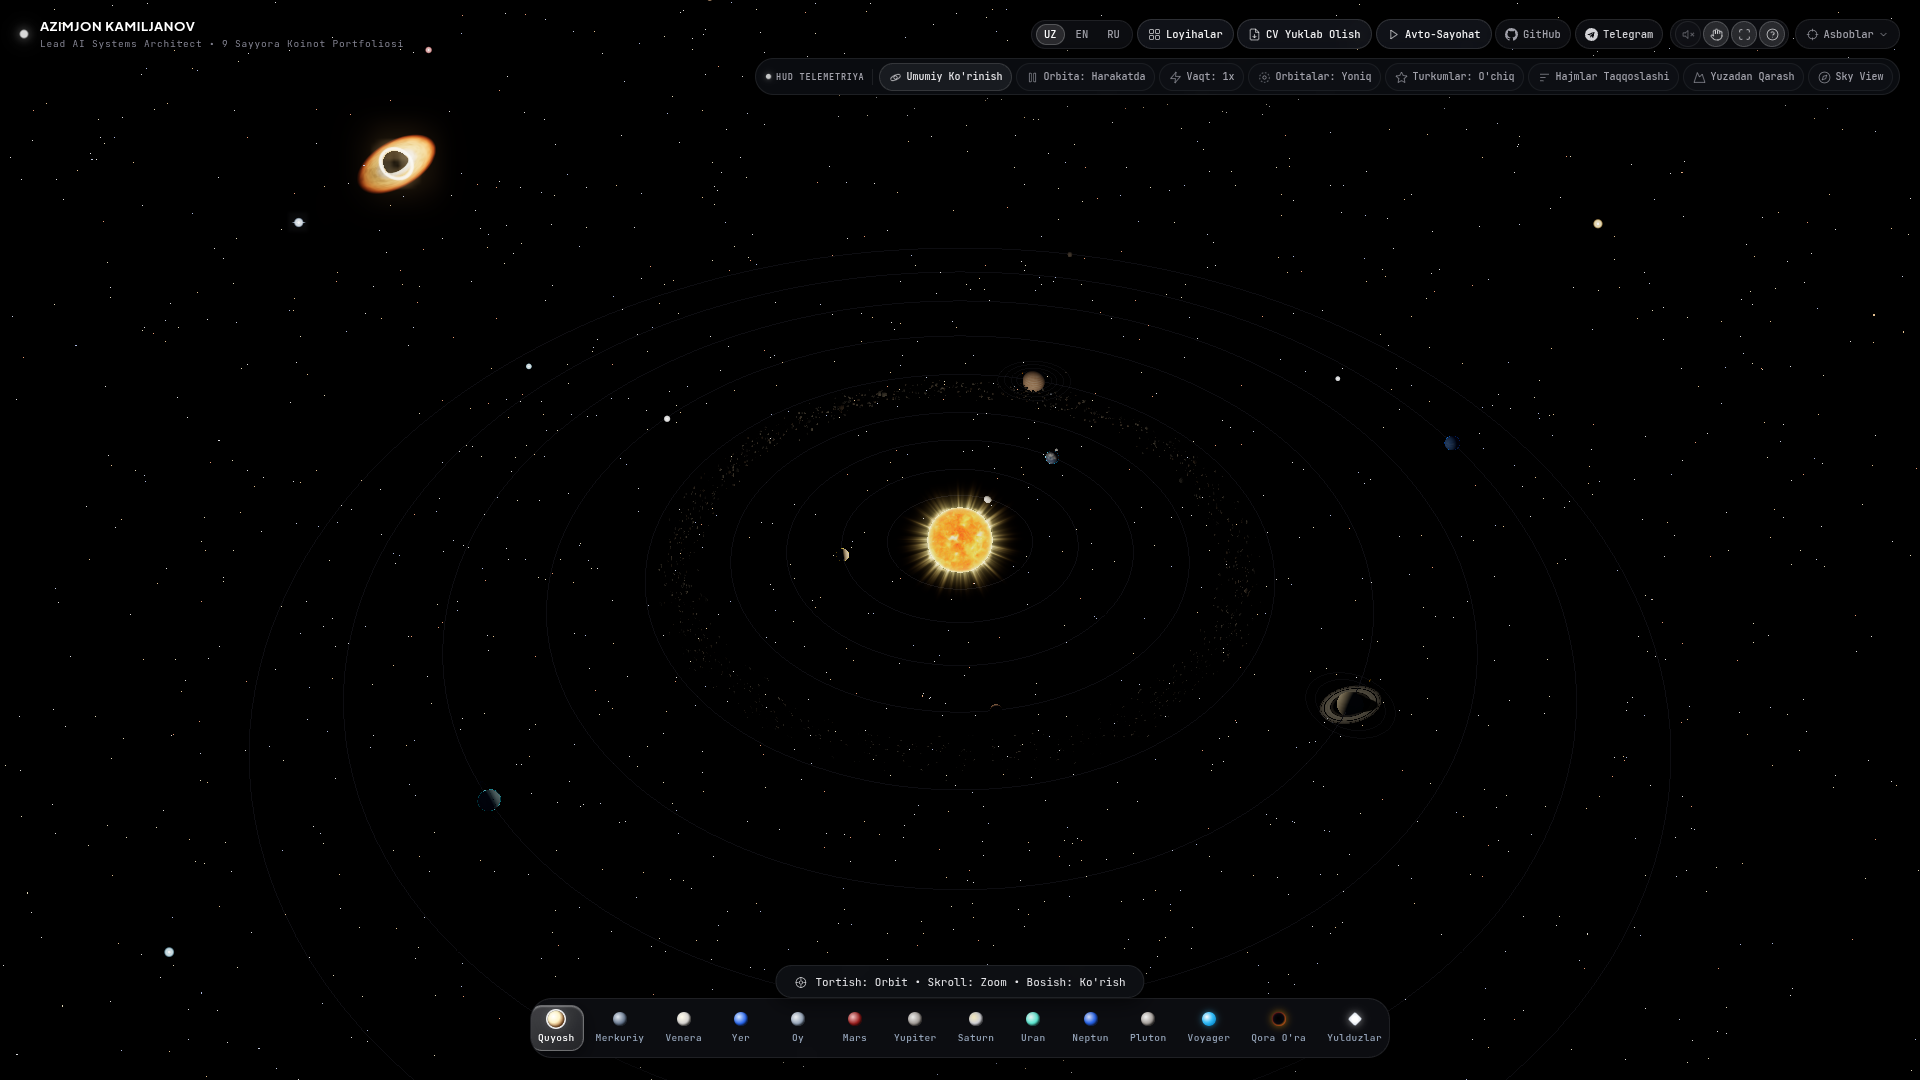
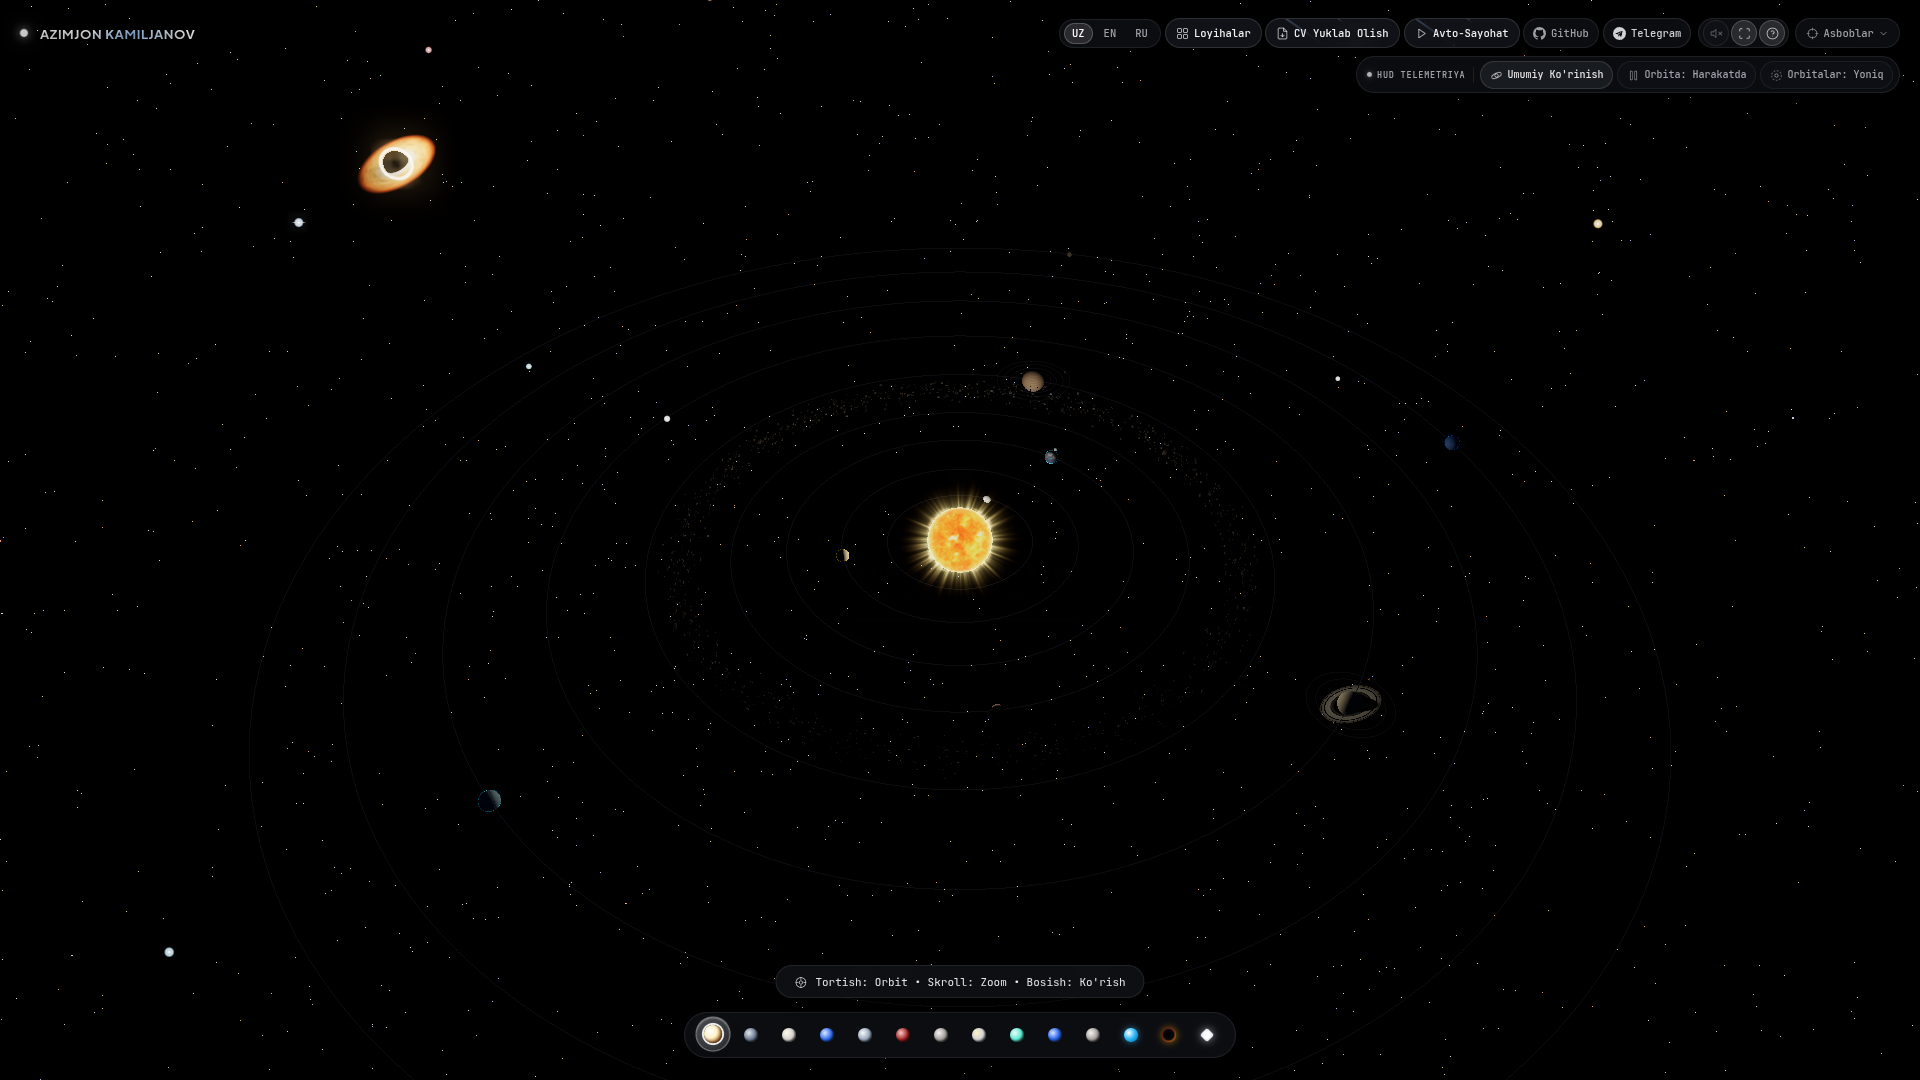
feat(ui): remove name subtitle and planet name labels, streamline HUD telemetry tools to minimalist layout

diff --git a/index.html b/index.html
@@ -135,7 +135,6 @@
                 <div class="pulsing-dot"></div>
                 <div>
                     <h1 class="brand-title">AZIMJON KAMILJANOV</h1>
-                    <p class="brand-subtitle">Lead AI Systems Architect • 9 Sayyora Koinot Portfoliosi</p>
                 </div>
             </div>
             <div class="brand-actions">
@@ -168,9 +167,6 @@
                     <button id="audio-toggle-btn" class="header-link audio-muted icon-pod-btn" title="Kosmik Ovozni Yoqish yoki O'chirish" data-tooltip="Kosmik Ovoz">
                         <span id="audio-toggle-icon"><svg class="btn-svg" viewBox="0 0 24 24" width="13" height="13" fill="none" stroke="currentColor" stroke-width="1.2" stroke-linecap="round" stroke-linejoin="round"><polygon points="11 5 6 9 2 9 2 15 6 15 11 19 11 5"/><line x1="22" y1="9" x2="16" y2="15"/><line x1="16" y1="9" x2="22" y2="15"/></svg></span> <span id="audio-toggle-text" class="pod-btn-text">Ovoz: O'chiq</span>
                     </button>
-                    <button id="gesture-toggle-btn" class="header-link gesture-inactive icon-pod-btn" title="Kamera orqali Qo'l Harakatlari Boshqaruvi (AI Vision)" data-tooltip="AI Qo'l Boshqaruvi">
-                        <span id="gesture-toggle-icon"><svg class="btn-svg" viewBox="0 0 24 24" width="13" height="13" fill="none" stroke="currentColor" stroke-width="1.2" stroke-linecap="round" stroke-linejoin="round"><path d="M18 11V6a2 2 0 0 0-2-2v0a2 2 0 0 0-2 2v5"/><path d="M14 10V4a2 2 0 0 0-2-2v0a2 2 0 0 0-2 2v7"/><path d="M10 10.5V6a2 2 0 0 0-2-2v0a2 2 0 0 0-2 2v8"/><path d="M18 8a2 2 0 1 1 4 0v6a8 8 0 0 1-8 8h-2c-2.8 0-4.5-.86-5.99-2.34l-3.6-3.6a2 2 0 0 1 2.83-2.83L7 15"/></svg></span> <span id="gesture-toggle-text" class="pod-btn-text">Qo'l Boshqaruvi</span>
-                    </button>
                     <button id="cinematic-toggle-btn" class="header-link icon-pod-btn" title="Toza Koinot Rejimi (H) / Pure Space Cinematic Mode" data-tooltip="Toza Fazo (H)">
                         <span id="cinematic-toggle-icon"><svg class="btn-svg" viewBox="0 0 24 24" width="13" height="13" fill="none" stroke="currentColor" stroke-width="1.2" stroke-linecap="round" stroke-linejoin="round"><path d="M8 3H5a2 2 0 0 0-2 2v3m18 0V5a2 2 0 0 0-2-2h-3m0 18h3a2 2 0 0 0 2-2v-3M3 16v3a2 2 0 0 0 2 2h3"/></svg></span> <span id="cinematic-toggle-text" class="pod-btn-text">Toza Fazo</span>
                     </button>
@@ -201,85 +197,66 @@
                 <button id="orbit-toggle-btn" class="header-link" title="Orbita Harakatini To'xtatish yoki Davom Ettirish">
                     <span id="orbit-toggle-icon"><svg class="btn-svg" viewBox="0 0 24 24" width="13" height="13" fill="none" stroke="currentColor" stroke-width="1.2" stroke-linecap="round" stroke-linejoin="round"><rect x="6" y="4" width="3.5" height="16" rx="1"/><rect x="14.5" y="4" width="3.5" height="16" rx="1"/></svg></span> <span id="orbit-toggle-text">Orbita: Harakatda</span>
                 </button>
-                <button id="warp-speed-btn" class="header-link" title="Vaqt Oqimi Tezligi (1x / 5x / 20x)">
-                    <span id="warp-speed-icon"><svg class="btn-svg" viewBox="0 0 24 24" width="13" height="13" fill="none" stroke="currentColor" stroke-width="1.2" stroke-linecap="round" stroke-linejoin="round"><polygon points="13 2 3 14 12 14 11 22 21 10 12 10 13 2"/></svg></span> <span id="warp-speed-text">Vaqt: 1x</span>
-                </button>
                 <button id="orbits-toggle-btn" class="header-link" title="Orbita Chiziqlarini Yoqish yoki O'chirish (O)">
                     <span id="orbits-toggle-icon"><svg class="btn-svg" viewBox="0 0 24 24" width="13" height="13" fill="none" stroke="currentColor" stroke-width="1.2" stroke-linecap="round" stroke-linejoin="round"><circle cx="12" cy="12" r="9" stroke-dasharray="3 3"/><circle cx="12" cy="12" r="3"/></svg></span> <span id="orbits-toggle-text">Orbitalar: Yoniq</span>
-                </button>
-                <button id="constellations-toggle-btn" class="header-link" title="Yulduz Turkumlari (C) / Constellations Grid">
-                    <span id="constellations-toggle-icon"><svg class="btn-svg" viewBox="0 0 24 24" width="13" height="13" fill="none" stroke="currentColor" stroke-width="1.2" stroke-linecap="round" stroke-linejoin="round"><polygon points="12 2 15.09 8.26 22 9.27 17 14.14 18.18 21.02 12 17.77 5.82 21.02 7 14.14 2 9.27 8.91 8.26 12 2"/></svg></span> <span id="constellations-toggle-text">Turkumlar: O'chiq</span>
-                </button>
-                <button id="scale-compare-btn" class="header-link" title="Hajmlar Taqqoslashi Rejimi / Scale Comparison Mode">
-                    <span id="scale-compare-icon"><svg class="btn-svg" viewBox="0 0 24 24" width="13" height="13" fill="none" stroke="currentColor" stroke-width="1.2" stroke-linecap="round" stroke-linejoin="round"><path d="M4 6h16M4 12h10M4 18h6"/></svg></span> <span id="scale-compare-text">Hajmlar Taqqoslashi</span>
-                </button>
-                <button id="surface-view-btn" class="header-link" title="Yuzadan Qarash Rejimi (Earthrise / Mars) / Surface View Mode">
-                    <span id="surface-view-icon"><svg class="btn-svg" viewBox="0 0 24 24" width="13" height="13" fill="none" stroke="currentColor" stroke-width="1.2" stroke-linecap="round" stroke-linejoin="round"><path d="m8 3 4 8 5-5 5 15H2L8 3z"/></svg></span> <span id="surface-view-text">Yuzadan Qarash</span>
-                </button>
-                <button id="skyview-toggle-btn" class="header-link" title="Mobil Planetariy / Sky View Gyroscope">
-                    <span id="skyview-toggle-icon"><svg class="btn-svg" viewBox="0 0 24 24" width="13" height="13" fill="none" stroke="currentColor" stroke-width="1.2" stroke-linecap="round" stroke-linejoin="round"><circle cx="12" cy="12" r="10"/><polygon points="16.24 7.76 14.12 14.12 7.76 16.24 9.88 9.88 16.24 7.76"/></svg></span> <span id="skyview-toggle-text">Sky View</span>
                 </button>
             </div>
         </div>
     </header>
 
+    <!-- Auxiliary controls kept in DOM for programmatic & shortcut support -->
+    <div class="aux-hidden-controls" style="display: none;" aria-hidden="true">
+        <button id="gesture-toggle-btn" class="header-link gesture-inactive icon-pod-btn"><span id="gesture-toggle-icon"></span><span id="gesture-toggle-text"></span></button>
+        <button id="warp-speed-btn" class="header-link"><span id="warp-speed-icon"></span><span id="warp-speed-text">Vaqt: 1x</span></button>
+        <button id="constellations-toggle-btn" class="header-link"><span id="constellations-toggle-icon"></span><span id="constellations-toggle-text">Turkumlar: O'chiq</span></button>
+        <button id="scale-compare-btn" class="header-link"><span id="scale-compare-icon"></span><span id="scale-compare-text">Hajmlar Taqqoslashi</span></button>
+        <button id="surface-view-btn" class="header-link"><span id="surface-view-icon"></span><span id="surface-view-text">Yuzadan Qarash</span></button>
+        <button id="skyview-toggle-btn" class="header-link"><span id="skyview-toggle-icon"></span><span id="skyview-toggle-text">Sky View</span></button>
+    </div>
+
     <!-- Bottom Navigation HUD -->
     <nav id="nav-container" aria-label="Koinot navigatsiyasi">
         <button class="nav-btn active-state" data-target="sun" title="Quyosh (Developer Profile)">
             <span class="planet-orb orb-sun"></span>
-            <span class="label">Quyosh</span>
         </button>
         <button class="nav-btn" data-target="Mercury" title="1. Merkuriy - CareTrack ERP">
             <span class="planet-orb orb-mercury"></span>
-            <span class="label">Merkuriy</span>
         </button>
         <button class="nav-btn" data-target="Venus" title="2. Venera - Jarvis-X AI">
             <span class="planet-orb orb-venus"></span>
-            <span class="label">Venera</span>
         </button>
         <button class="nav-btn" data-target="Earth" title="3. Yer - CyberAgent Flagship">
             <span class="planet-orb orb-earth"></span>
-            <span class="label">Yer</span>
         </button>
         <button class="nav-btn special-moon" data-target="moon" title="Yer Yo'ldoshi - Aloqa Kanallari">
             <span class="planet-orb orb-moon"></span>
-            <span class="label">Oy</span>
         </button>
         <button class="nav-btn" data-target="Mars" title="4. Mars - UstaPro CAD 3D">
             <span class="planet-orb orb-mars"></span>
-            <span class="label">Mars</span>
         </button>
         <button class="nav-btn" data-target="Jupiter" title="5. Yupiter - Sentinel ECC Matrix">
             <span class="planet-orb orb-jupiter"></span>
-            <span class="label">Yupiter</span>
         </button>
         <button class="nav-btn" data-target="Saturn" title="6. Saturn - Elite AI Swarm">
             <span class="planet-orb orb-saturn"></span>
-            <span class="label">Saturn</span>
         </button>
         <button class="nav-btn" data-target="Uranus" title="7. Uran - Modern Full-Stack">
             <span class="planet-orb orb-uranus"></span>
-            <span class="label">Uran</span>
         </button>
         <button class="nav-btn" data-target="Neptune" title="8. Neptun - AI & Deep Learning Lab">
             <span class="planet-orb orb-neptune"></span>
-            <span class="label">Neptun</span>
         </button>
         <button class="nav-btn" data-target="Pluto" title="9. Pluton - Google Jules & Poco">
             <span class="planet-orb orb-pluto"></span>
-            <span class="label">Pluton</span>
         </button>
         <button class="nav-btn special-voyager" data-target="Voyager" title="Voyager 1 - Koinot Zondi Missiyasi">
             <span class="planet-orb orb-voyager"></span>
-            <span class="label">Voyager</span>
         </button>
         <button class="nav-btn special-blackhole" data-target="BlackHole" title="Sagittarius A* - Qora O'ra (Black Hole)">
             <span class="planet-orb orb-blackhole"></span>
-            <span class="label">Qora O'ra</span>
         </button>
         <button class="nav-btn special-star" data-target="star" title="Haqiqiy Astronomik Yulduzlar & Kiber-Arsenal (18 ta Loyiha)">
             <span class="planet-orb orb-stars"></span>
-            <span class="label">Yulduzlar</span>
         </button>
     </nav>
 

diff --git a/style.css b/style.css
@@ -104,11 +104,7 @@ body, html {
 }
 
 .brand-subtitle {
-    font-family: 'JetBrains Mono', monospace;
-    font-size: 9.5px;
-    letter-spacing: 0.8px;
-    color: #828290;
-    margin: 3px 0 0 0;
+    display: none !important;
 }
 
 .btn-svg {
@@ -614,10 +610,10 @@ body, html {
     backdrop-filter: blur(12px);
     -webkit-backdrop-filter: blur(12px);
     border: 1px solid rgba(255, 255, 255, 0.08);
-    border-radius: 22px;
-    padding: 6px 10px;
+    border-radius: 999px;
+    padding: 6px 12px;
     display: inline-flex;
-    gap: 3px;
+    gap: 6px;
     align-items: center;
     justify-content: center;
     overflow-x: auto;
@@ -633,29 +629,39 @@ body, html {
 
 .nav-btn {
     flex: 0 0 auto;
-    min-width: 54px;
+    min-width: unset;
+    width: 32px;
+    height: 32px;
     background: transparent;
     border: 1px solid transparent;
     color: #94a3b8;
-    font-family: 'JetBrains Mono', monospace;
-    font-size: 10px;
-    font-weight: 500;
-    padding: 6px 8px;
-    border-radius: 13px;
+    padding: 0;
+    border-radius: 50%;
     cursor: pointer;
     transition: all 0.22s cubic-bezier(0.16, 1, 0.3, 1);
     display: flex;
-    flex-direction: column;
     align-items: center;
-    gap: 5px;
+    justify-content: center;
     white-space: nowrap;
     user-select: none;
+    position: relative;
+}
+
+.nav-btn:hover {
+    background: rgba(255, 255, 255, 0.08);
+    border-color: rgba(255, 255, 255, 0.18);
+    transform: translateY(-2px) scale(1.12);
+}
+
+.nav-btn.active-state {
+    background: rgba(255, 255, 255, 0.12);
+    border-color: rgba(255, 255, 255, 0.35);
+    box-shadow: 0 0 14px rgba(255, 255, 255, 0.25);
+    transform: translateY(-1px) scale(1.1);
 }
 
 .nav-btn span.label {
-    font-size: 9.5px;
-    letter-spacing: 0.4px;
-    transition: color 0.2s ease;
+    display: none !important;
 }
 
 /* Realistic Astronomical Micro-Spheres for HUD Dock */
@@ -3139,8 +3145,10 @@ body, html {
         justify-content: flex-start;
     }
     .nav-btn {
-        min-width: 52px;
-        padding: 6px 7px;
+        min-width: unset;
+        width: 30px;
+        height: 30px;
+        padding: 0;
     }
     .planet-orb {
         width: 13px;

diff --git a/translations.js b/translations.js
@@ -9,7 +9,7 @@ export const translations = {
     ui: {
         uz: {
             brandTitle: "AZIMJON KAMILJANOV",
-            brandSubtitle: "Lead AI Systems Architect • 9 Sayyora Koinot Portfoliosi",
+            brandSubtitle: "",
             overviewBtn: "Umumiy Ko'rinish",
             orbitActive: "Orbita: Harakatda",
             orbitPaused: "Orbita: To'xtatildi",
@@ -179,7 +179,7 @@ export const translations = {
         },
         en: {
             brandTitle: "AZIMJON KAMILJANOV",
-            brandSubtitle: "Lead AI Systems Architect • 9-Planet Cosmic Portfolio",
+            brandSubtitle: "",
             overviewBtn: "Solar Overview",
             orbitActive: "Orbit: Running",
             orbitPaused: "Orbit: Paused",
@@ -349,7 +349,7 @@ export const translations = {
         },
         ru: {
             brandTitle: "AZIMJON KAMILJANOV",
-            brandSubtitle: "Lead AI Systems Architect • Портфолио 9 Планет",
+            brandSubtitle: "",
             overviewBtn: "Обзор Системы",
             orbitActive: "Орбита: В движении",
             orbitPaused: "Орбита: На паузе",
